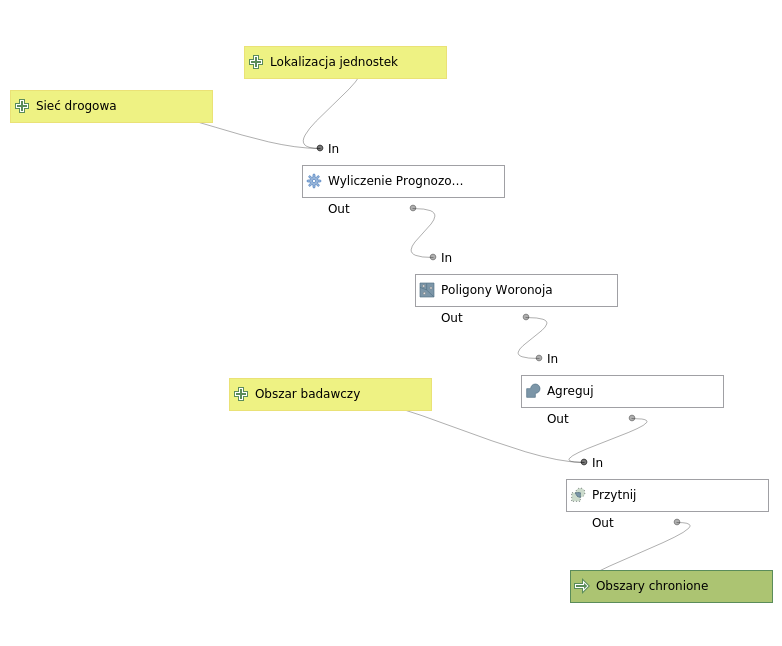
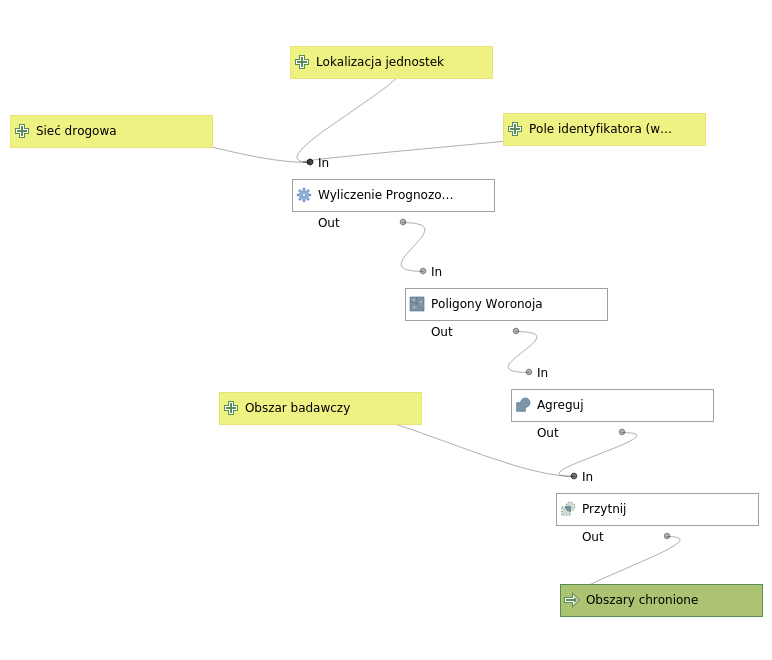
zmiany w modelu, dodany parametr fid

diff --git a/README.md b/README.md
@@ -19,12 +19,16 @@ W repozytorium znajdują się modele QGIS 3 przygotowujące pliki dostarczane pr
 Zasada działania preprocessingu opisana jest przez następujący graf:
 ![Przygotowanie danych Geofabrik](preprocessing_geofabrik_shape_autorski.png)
 
-## Czas dojazdu
+Dodatkowo przygotowane zostały wersje tego modelu i algorytmu dla różnych parametrów prędkościowych, zależnie od przyjętej metodyki.
 
 ## Obszar chroniony
 
 Zasada działania modelu opisana na grafie:
 ![Wyznaczanie obszaru chronionego wielu jednostek](obszar_chroniony_adm.png)
-## Pozostałe
 
+## Procent populacji, procent powierzchni
 
+Zasada działania modelu opisana na grafie:
+![Wyznaczanie procenta populacji](procent_populacji.png)
+
+Model do poprawnego działania wymaga warstwy wektorowej obwodów spisowych lub siatki kilometrowej (PD_BREC, PD_GRID).
